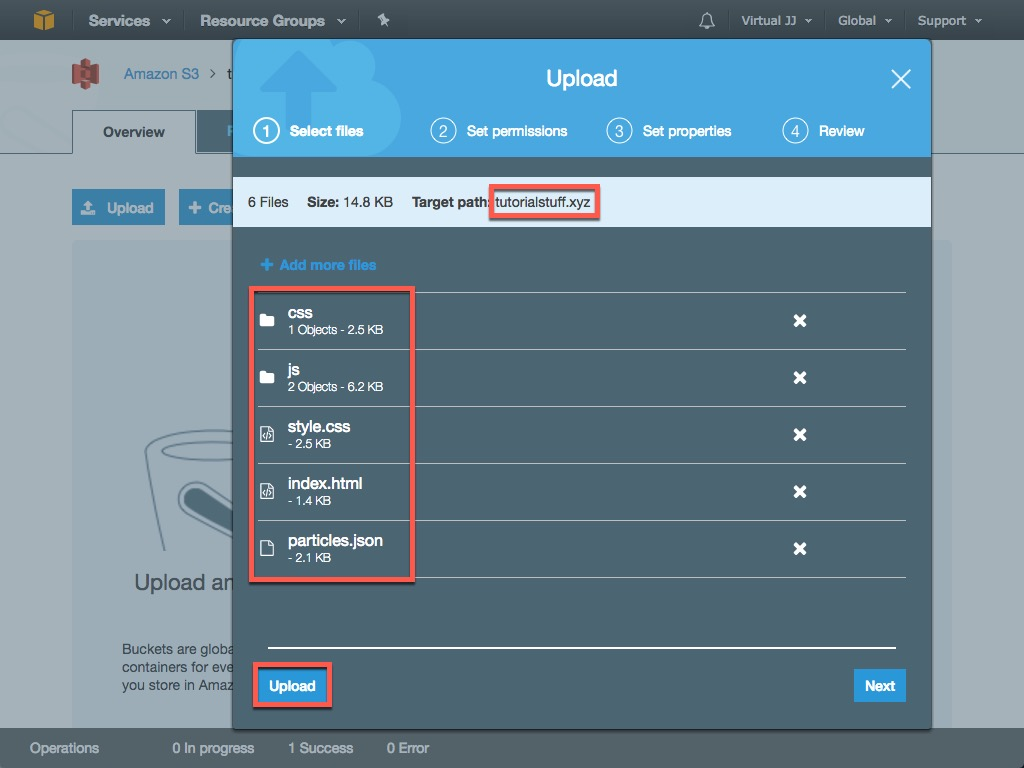
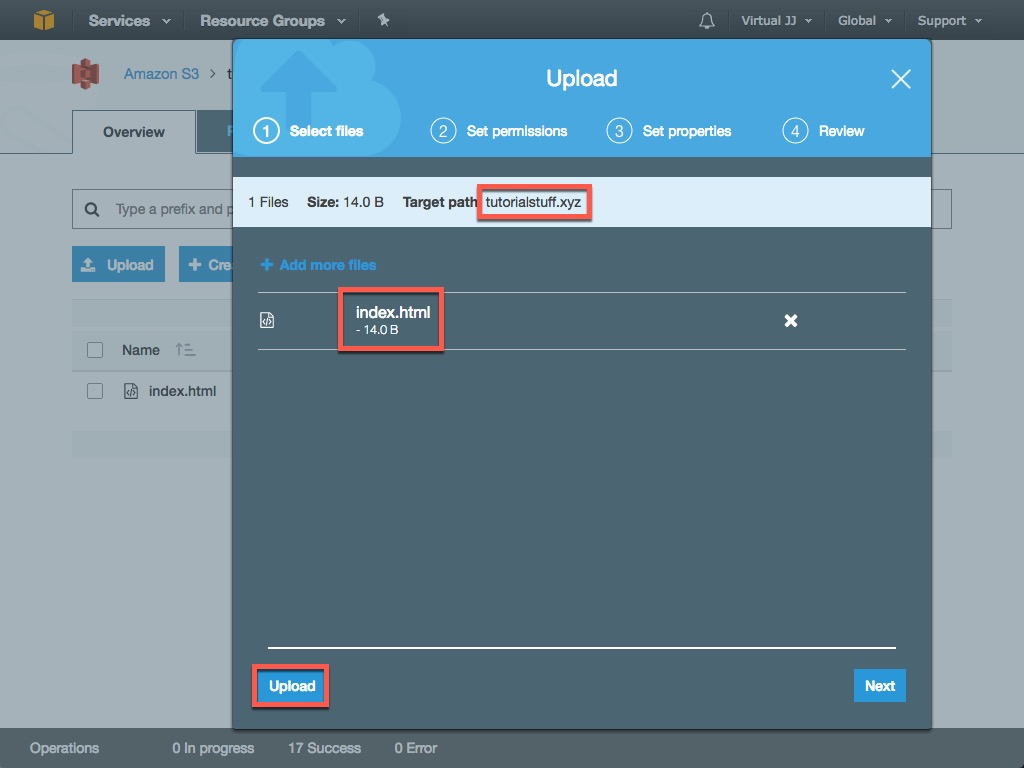
Add more section and images.

diff --git a/README.md b/README.md
@@ -145,7 +145,11 @@ Basically all you have to do is upload an *index.html* document to your static w
 <img src="https://github.com/virtualjj/aws-s3-backed-cloudflare-static-website/blob/master/images/readme/confirmhosting-002-no-key-exists.jpg" alt="Cannot open the S3 endpoint because no key (i.e. object) exists for index.html or error.html." height="75%" width="75%">
 </p>
 
-3. Upload a test site or simple file that has at least an *index.html* file. I will be fancy and use the [particles.js](http://vincentgarreau.com/particles.js/) library demo for my test:
+3. Upload a simple *index.html* file. I will use one that has only the following line:
+
+```
+<h1>WORKS</h1>
+```
 
 <p align="center">
 <img src="https://github.com/virtualjj/aws-s3-backed-cloudflare-static-website/blob/master/images/readme/confirmhosting-003-drag-in-files.jpg" alt="Drag or upload your website that at least has an index.html." height="75%" width="75%">
@@ -155,6 +159,36 @@ Make sure you at least have an index.html (that isn't empty preferably) object i
 
 <p align="center">
 <img src="https://github.com/virtualjj/aws-s3-backed-cloudflare-static-website/blob/master/images/readme/confirmhosting-003-make-sure.indexhtml.jpg" alt="Make sure you have an index.html in your site bucket." height="75%" width="75%">
+</p>
+
+4. Refresh your browser or click on the endpoint URL again like you did in step 2&mdash;you will get a new error message:
+
+<p align="center">
+<img src="https://github.com/virtualjj/aws-s3-backed-cloudflare-static-website/blob/master/images/readme/confirmhosting-004-access-denied.jpg" alt="Access denied when trying to open index.html." height="75%" width="75%">
+</p>
+
+The problem is that there is an index.html but it is not publicly accessible. Since you'll want visitors to be able to view your site, the files need to be public. Note that I could have configured the CloudFormation template to make the bucket public by default but I opted not to in order to avoid folks accidentally uploading sensitive files.
+
+5. Open the the __Permissions__ tab and and then click on __Bucket Policy__. From here you can paste in the following policy&mdash;make sure to replace `<YOUR BUCKET NAME>` with your bucket name:
+
+```
+{
+    "Version": "2008-10-17",
+    "Statement": [
+        {
+            "Sid": "AllowPublicRead",
+            "Effect": "Allow",
+            "Principal": {
+                "AWS": "*"
+            },
+            "Action": "s3:GetObject",
+            "Resource": "arn:aws:s3:::<YOUR BUCKET NAME>/*"
+        }
+    ]
+}
+```
+<p align="center">
+<img src="https://github.com/virtualjj/aws-s3-backed-cloudflare-static-website/blob/master/images/readme/confirmhosting-005-add-public-access-policy.jpg" alt="Access denied when trying to open index.html." height="75%" width="75%">
 </p>
 
 
